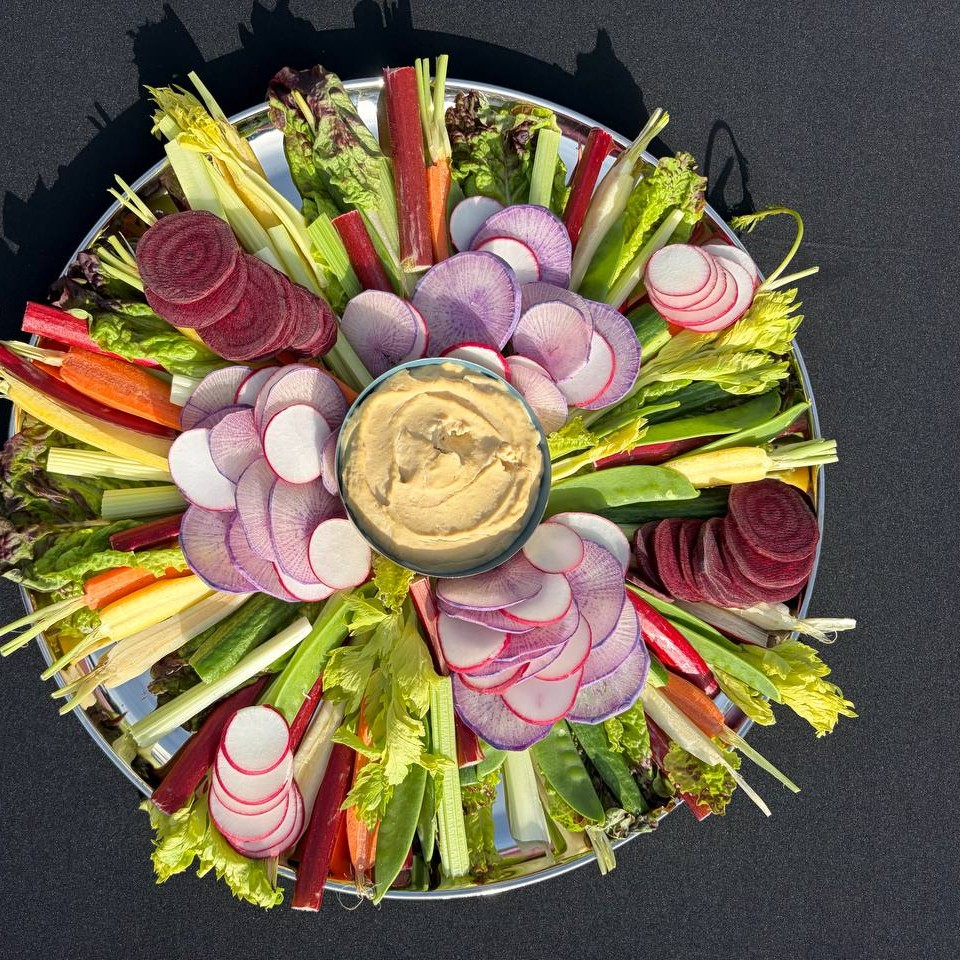
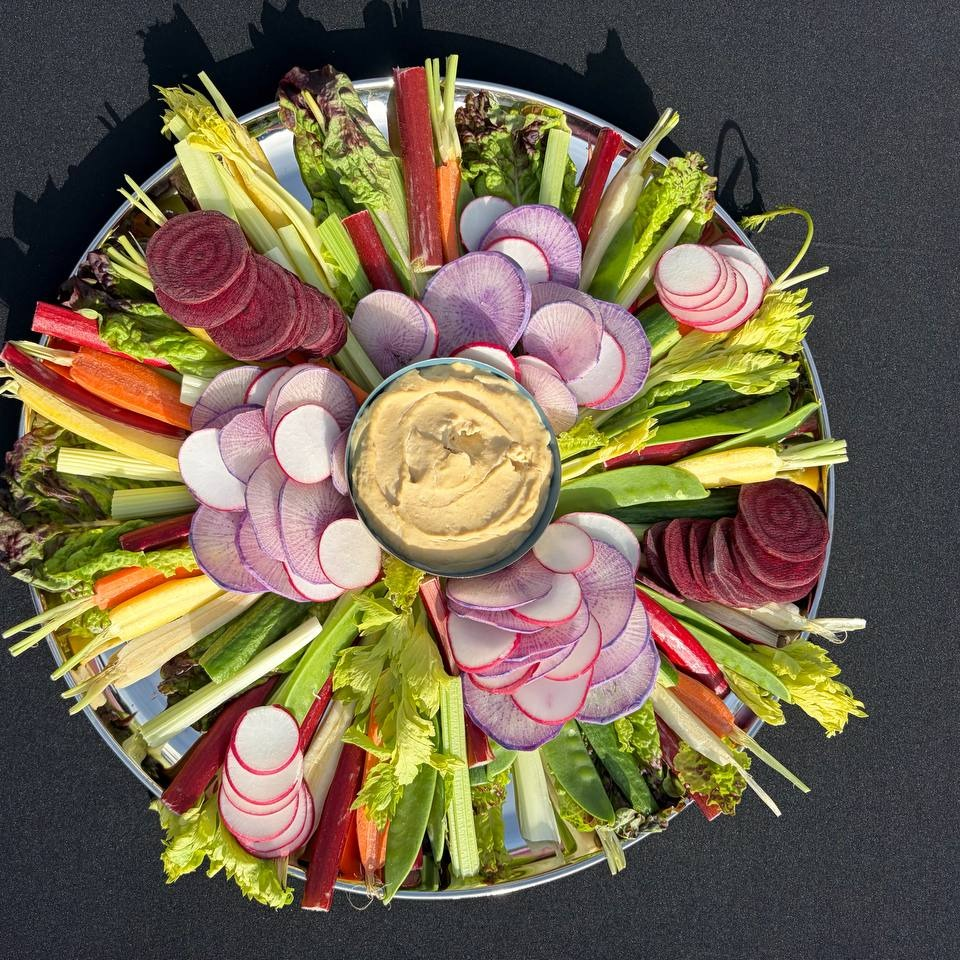
Shift crudite crop 10px right; sync pricing page pizza names and ingredients

diff --git a/pricing.html b/pricing.html
@@ -634,49 +634,49 @@ footer .logo {
           <input type="checkbox" name="pizza_margherita" value="Margherita" />
           <span class="checkbox-label">
             <strong>Margherita</strong>
-            <span>San Marzano, mozzarella, fresh oregano</span>
+            <span>House-made tomato sauce, fior di latte, fresh basil</span>
           </span>
         </label>
         <label class="checkbox-item">
           <input type="checkbox" name="pizza_pepperoni" value="Pepperoni" />
           <span class="checkbox-label">
             <strong>Pepperoni</strong>
-            <span>Cup-and-char pepperoni</span>
+            <span>House-made tomato sauce, mozzarella, pepperoni, fresh oregano</span>
           </span>
         </label>
         <label class="checkbox-item">
-          <input type="checkbox" name="pizza_burrata" value="Burrata" />
+          <input type="checkbox" name="pizza_prosciutto" value="Prosciutto" />
           <span class="checkbox-label">
-            <strong>Burrata &amp; Prosciutto</strong>
-            <span>Creamy burrata, aged prosciutto</span>
+            <strong>Prosciutto</strong>
+            <span>House-made tomato sauce, mozzarella, prosciutto, burrata, arugula</span>
           </span>
         </label>
         <label class="checkbox-item">
           <input type="checkbox" name="pizza_funghi" value="Funghi" />
           <span class="checkbox-label">
             <strong>Funghi</strong>
-            <span>Wild mushrooms, truffle oil, herbs</span>
+            <span>Bianco sauce, mozzarella, wild mushrooms, cipollini onions, parsley</span>
           </span>
         </label>
         <label class="checkbox-item">
-          <input type="checkbox" name="pizza_chicken_pesto" value="Chicken Pesto" />
+          <input type="checkbox" name="pizza_pollo_al_pesto" value="Pollo al Pesto" />
           <span class="checkbox-label">
-            <strong>Chicken Pesto</strong>
-            <span>Basil pesto, roasted chicken, mozzarella</span>
+            <strong>Pollo al Pesto</strong>
+            <span>Pesto sauce, mozzarella, grilled chicken, sun-dried tomatoes, olives, walnuts</span>
           </span>
         </label>
         <label class="checkbox-item">
-          <input type="checkbox" name="pizza_eggplant" value="Eggplant" />
+          <input type="checkbox" name="pizza_siciliana" value="Siciliana" />
           <span class="checkbox-label">
-            <strong>Eggplant</strong>
-            <span>Caramelized onion, eggplant, cheese</span>
+            <strong>Siciliana</strong>
+            <span>House-made tomato sauce, mozzarella, eggplant, feta, caramelized onions</span>
           </span>
         </label>
         <label class="checkbox-item">
-          <input type="checkbox" name="pizza_honey_pistachio" value="Honey Pistachio" />
+          <input type="checkbox" name="pizza_tacchino_bianco" value="Tacchino Bianco" />
           <span class="checkbox-label">
-            <strong>Honey &amp; Pistachio</strong>
-            <span>Ricotta, pistachios, wildflower honey</span>
+            <strong>Tacchino Bianco</strong>
+            <span>Bianco sauce, mozzarella, turkey, pistachio nuts</span>
           </span>
         </label>
         <label class="checkbox-item">
